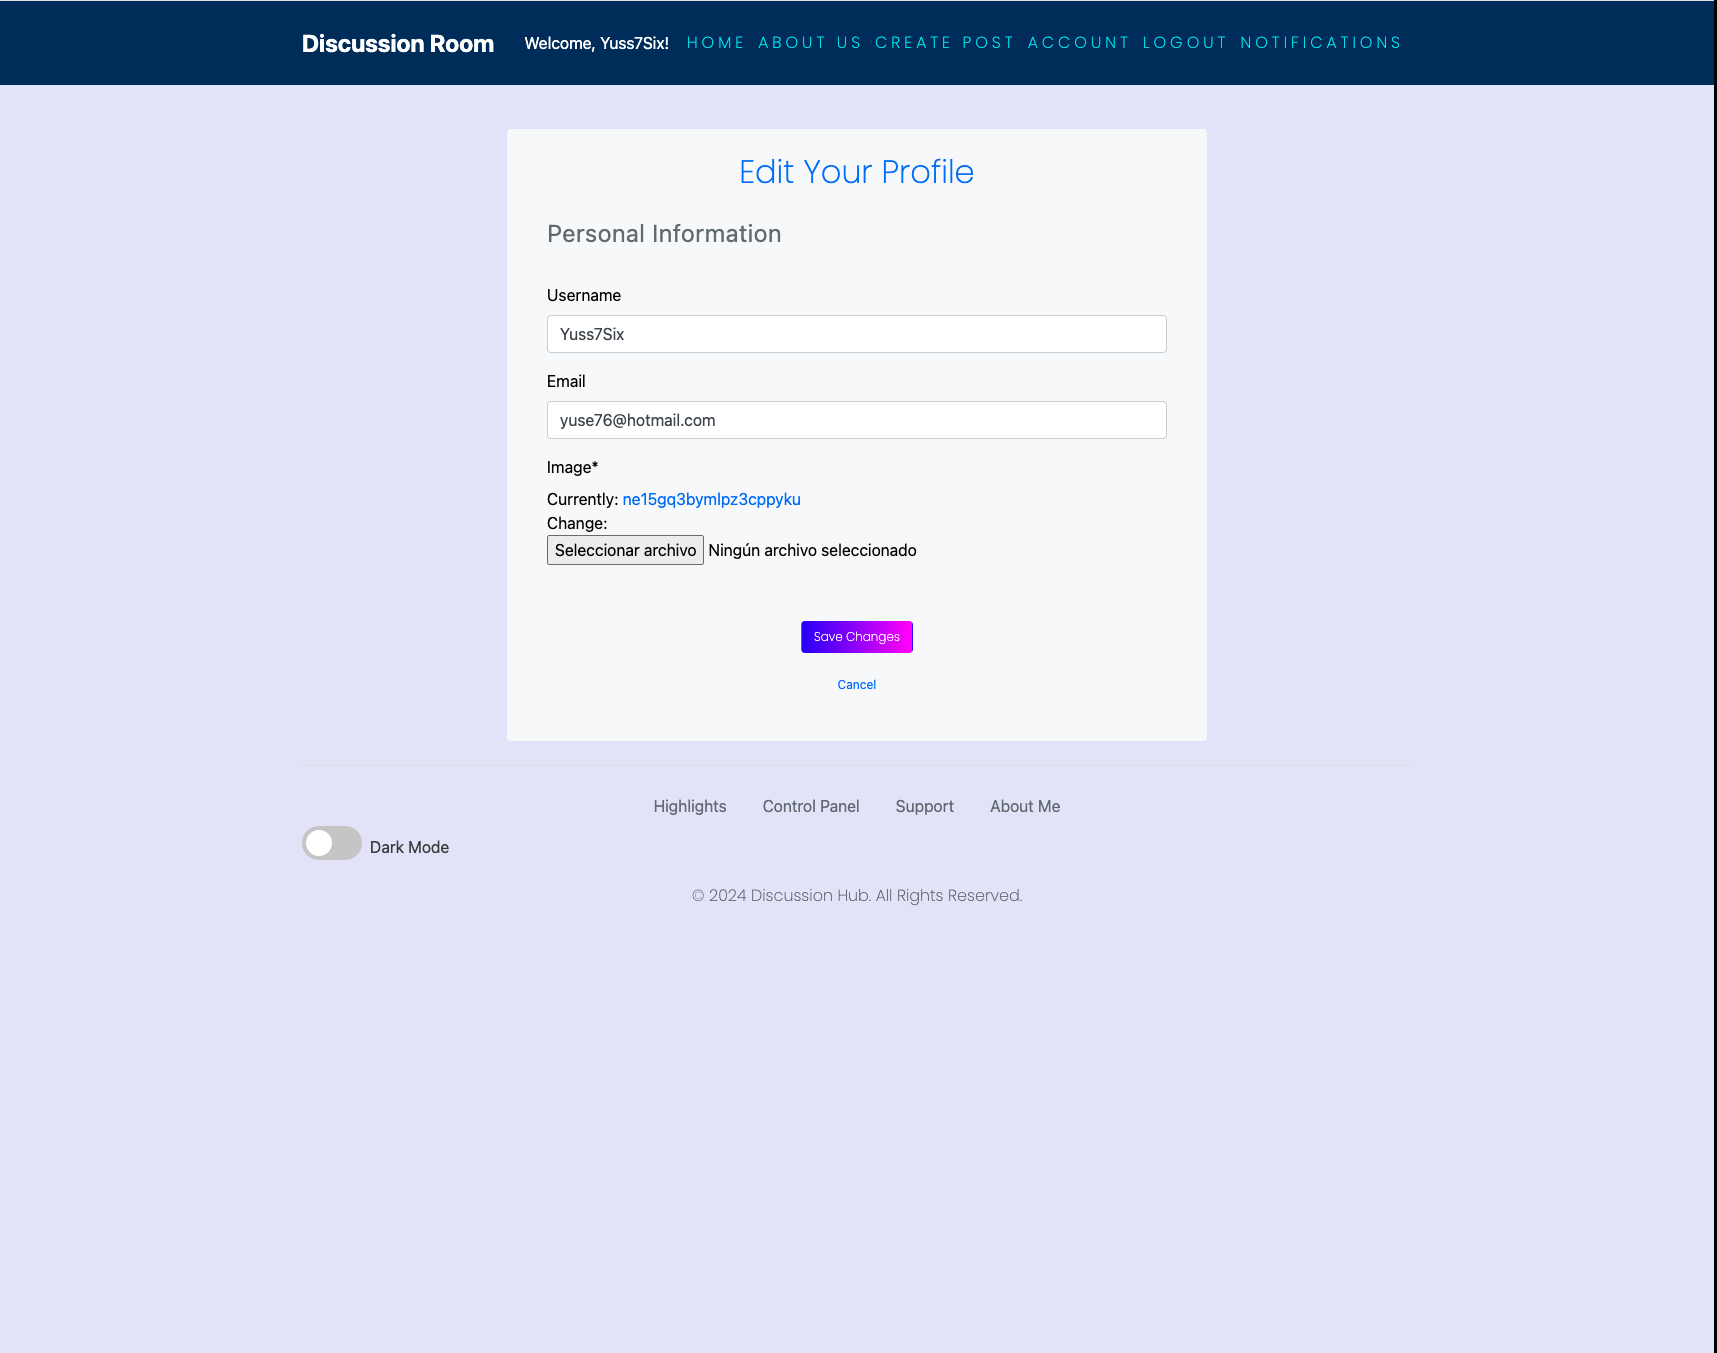
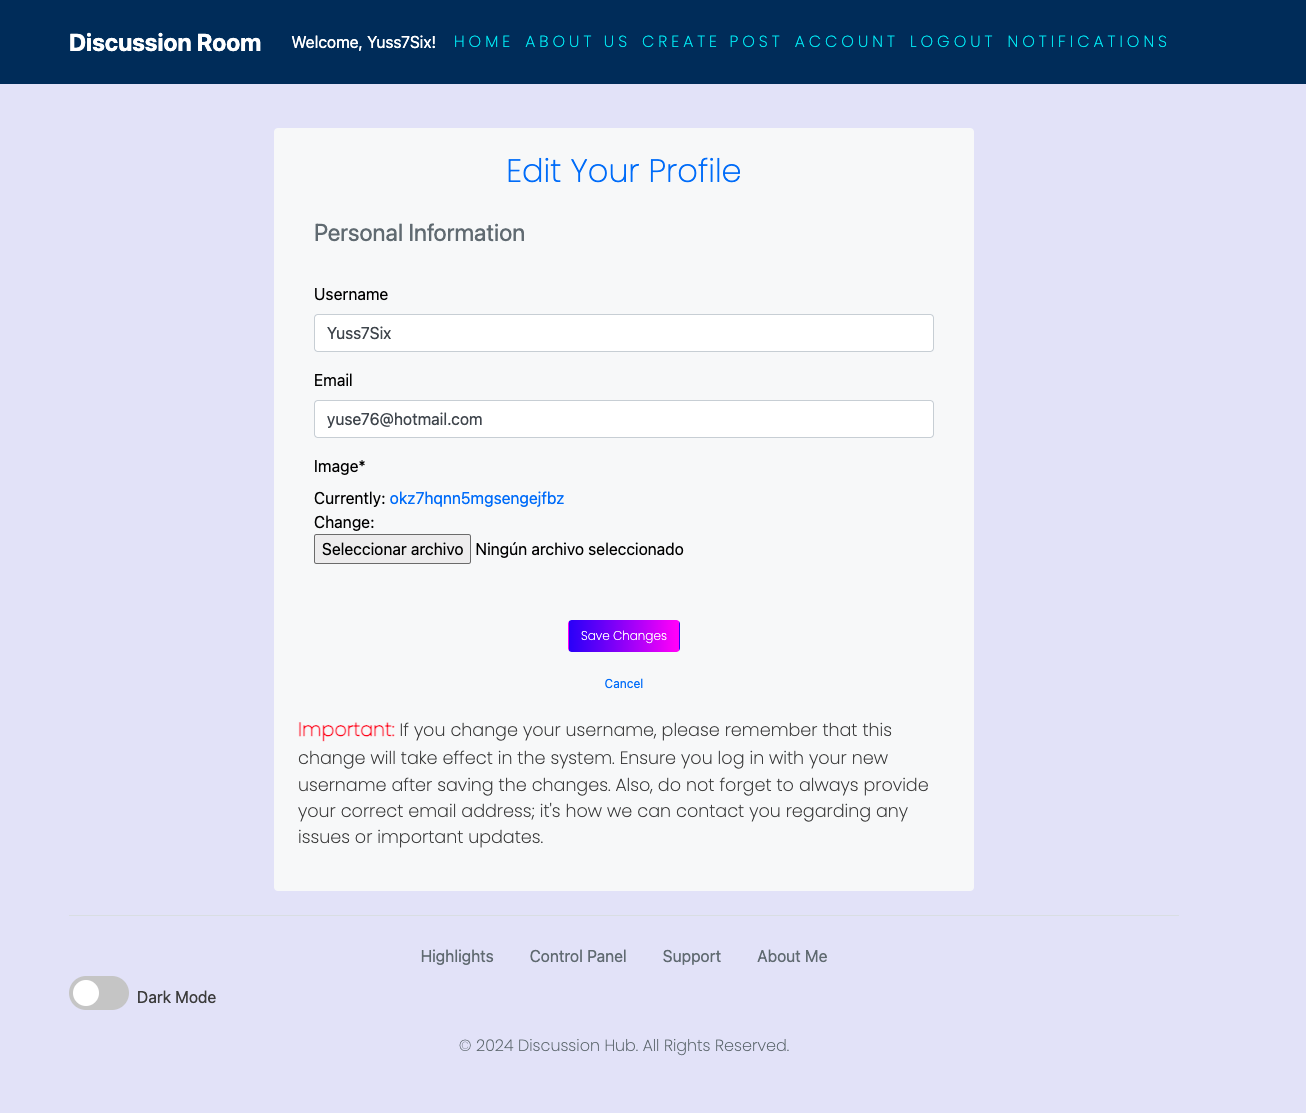
Modify sections edit profile for light mode and dark mode in the readme file

diff --git a/README.md b/README.md
@@ -519,7 +519,13 @@ Additionally, there is an Update Profile button that directs users to the profil
 
 ### Edit Your Profile Window
 
-When users click the Update Profile button, they are taken to the Edit Your Profile window. In this section, users can update their name, email, and avatar image. After making the desired changes, users can save their updates, or if they wish to cancel, they have the option to go back without making any changes.
+The Edit Profile Page features a visually appealing soft white container with a prominent blue title that clearly conveys the page's purpose. Inside this container, users will encounter input fields for updating their username and email, set against a light grey background to enhance readability.
+
+Additionally, there is a specific section designated for changing the avatar image. This section showcases the current profile picture, allowing users to easily view their existing image prior to making any updates.
+
+At the bottom of the page, a Save Changes button is displayed with a vibrant blue-purple background and white text, enabling users to submit their updates. Adjacent to it, a straightforward blue link allows users to Cancel and return, providing a convenient option to exit without applying changes.
+
+Users are also shown a warning message when considering a username change, informing them that any changes made will be reflected in the system. Once updated, the new username will serve as their primary login identifier. Additionally, users are reminded to enter a valid email address, allowing our team to reach out concerning any significant updates or changes.
 
 *Edit Your Profile Desktop*<br>
 ![Edit Your Profile Desktop](static/images/screenshots/pageeditprofiledesktop.png)
@@ -915,11 +921,13 @@ Additionally, there is a dedicated section for changing the avatar image. This s
 
 At the bottom of the page, there is a Save Changes button with an attractive dark grey background and white text, enabling users to apply their updates. Next to it, a simple link in blue allows users to Cancel and go back, providing an easy option to exit without saving changes.
 
+A warning message is displayed for users considering a username change, reminding them that if they change their username, it will be updated in the system. After the change, this new username will become their primary identifier for logging in. Furthermore, users are encouraged to provide a correct email address, as this enables our team to contact them regarding any important changes or updates.
+
 *Edit Profile Dark Mode Desktop*<br>
-![Edit Profile Dark Mode Desktop](static/images/screenshots/darkmodeeditprofiledesktop.png)
+![Edit Profile Dark Mode Desktop](static/images/screenshots/darkmodeeditprofilepage.png)
 
 *Edit Profile Dark Mode Mobile*<br>
-![Edit Profile Dark Mode Mobile](static/images/screenshots/darkmodeeditprofilemobil.png)
+![Edit Profile Dark Mode Mobile](static/images/screenshots/darkomodeeditprofilemobile.png)
 
 ## Notifications Page (Dark Mode - Empty)
 The Notifications Page in dark mode features a sleek black background that enhances the visual appeal. At the top of the page, the title Your Notifications is displayed in white letters, clearly indicating the purpose of the section.
